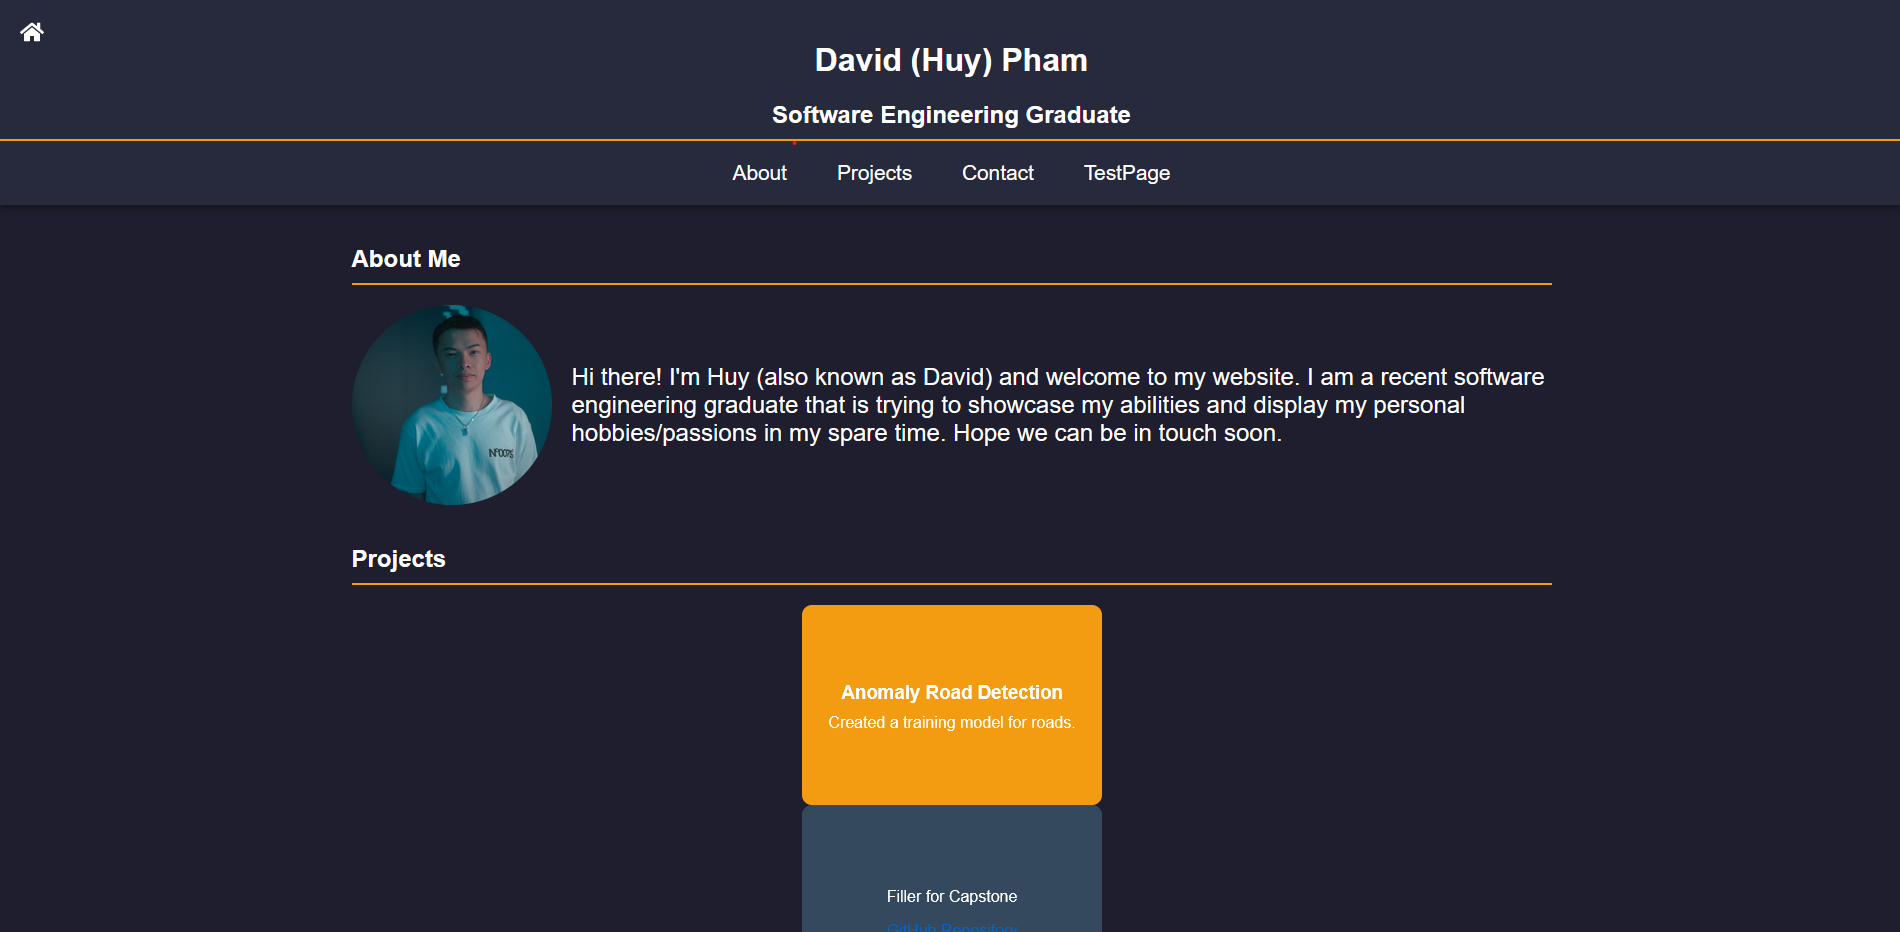
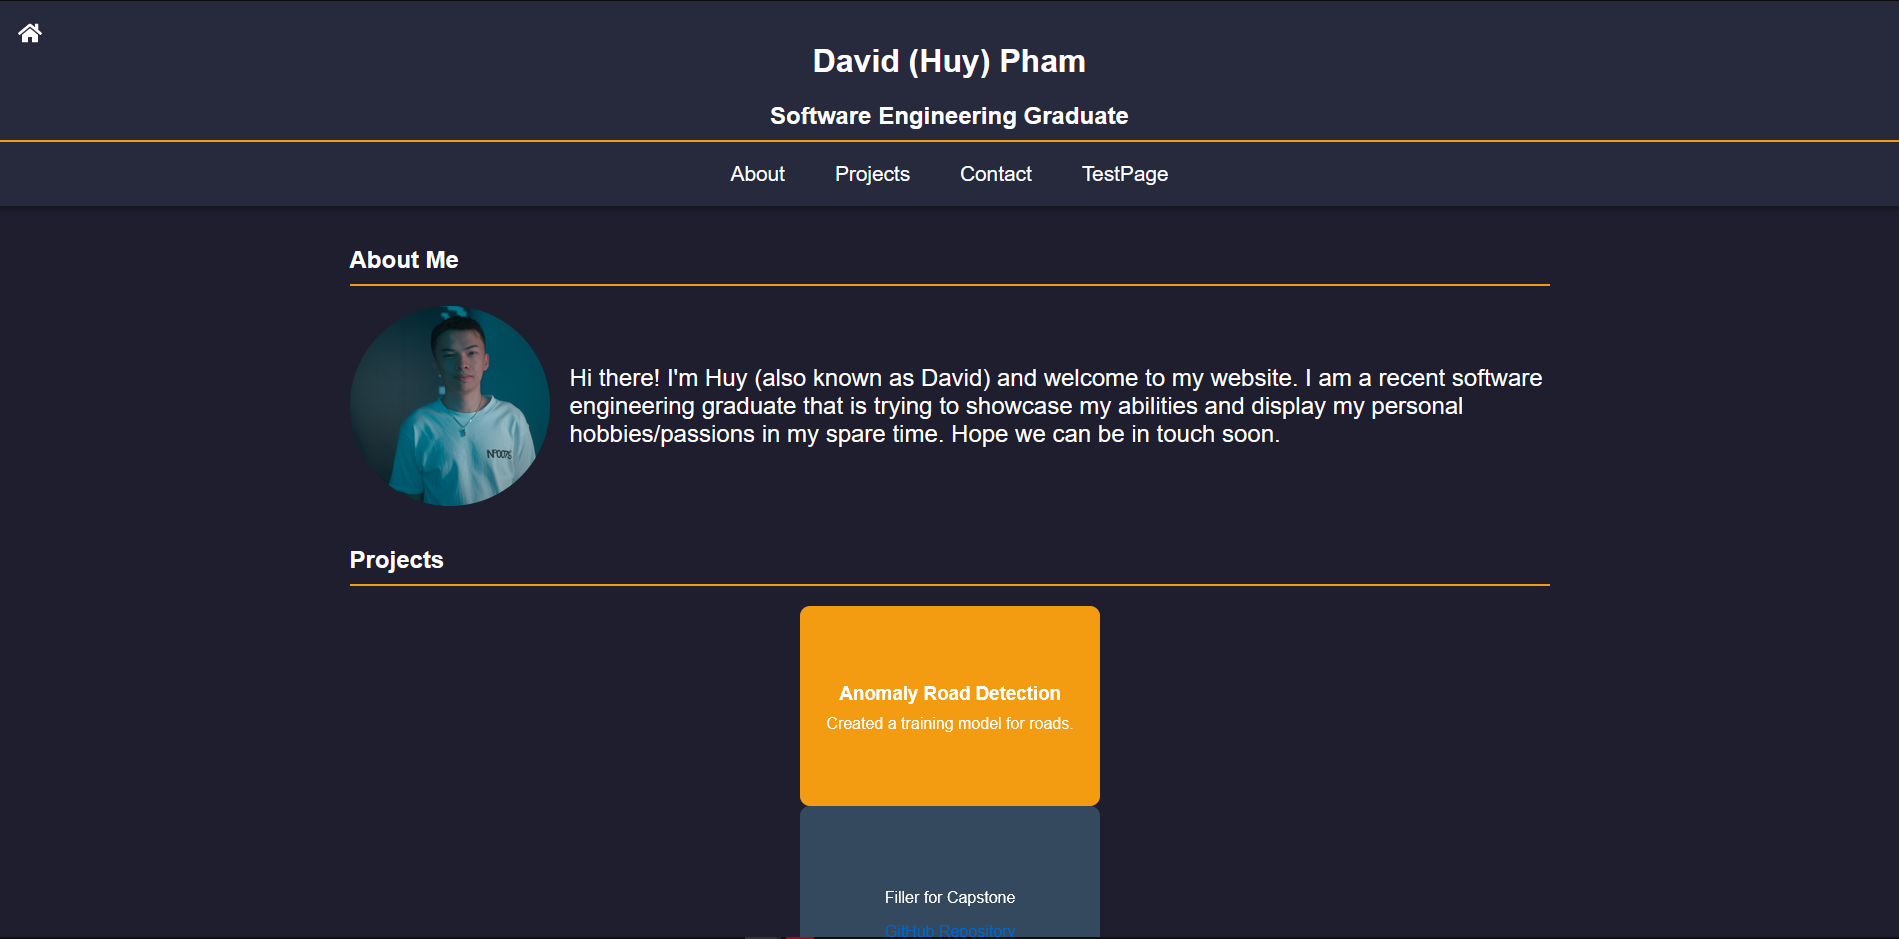
Project page finished
- new pictures added
- new blurbs added per project
- stylized
- TODO: add icons per project?

diff --git a/frontend/src/components/projects/Projects.js b/frontend/src/components/projects/Projects.js
@@ -7,26 +7,26 @@ import './projects.css';
 const projects = [
   {
     title: 'Personal Website: hwe',
-    description: 'asdfasdf',
-    details: 'asdfasdf',
+    description: 'My own personal website to showcase my skills and passions. Showcase my abiltities for software engineering and development.',
+    details: 'Personally developped a user-friendly, responsive website to showcase my skills, projects, and my personal and professional exerpeince. This design features a sleek design with cohesive navation and interactive elements that provide a large overview of my work.',
     imgSRC: '/images/personalweb.png',
     repoLink: 'https://github.com/Tr0llinMe/hweport',
     date: 'May 2024'
   },
   {
-    title: 'Capstone',
-    description: 'asdfasdf',
-    details: 'asdfasdf',
+    title: 'Capstone: NotifyMe Application',
+    description: 'A navigation application catered to students to streamline their commuting experience.',
+    details: 'Worked as a full-stack developer within the project in order to learn the general workflow and architecture for this application. The website is able to give navigations for any mode of transport users need, with traffic congestion % also included for users to deecide their directions. It also includes an hour-to-hour traffic detail to show when the best time users should leave.',
     imgSRC: '/images/NotifyMeSystem.png',
-    repoLink: '',
+    repoLink: 'https://github.com/Tr0llinMe/Navigation-TMU',
     date: 'January 2024'
   },
   {
-    title: 'Project 3',
-    description: 'asdfasdf',
-    details: 'asdfasdf',
-    imgSRC: '',
-    repoLink: '',
+    title: 'Anomaly Detection: Training Model',
+    description: 'Worked as a predecessaor for NotifyMe. Created a training model to detect road anomalies.',
+    details: 'Worked as the main developer for this project. The training mdoel is used to detect whether or not the road conditions are suitable for vehicles to drive in. It uses a CNN model for the learning process, with making use of computer vision in order to detect any issues with the pictures. The training set is then organized so that it can be later used to retrain the model.',
+    imgSRC: '/images/anomalydetection.png',
+    repoLink: 'https://github.com/Tr0llinMe/Anomaly-Road-Detection',
     date: 'November 2023'
   },
   //If more is needed add in chrono

diff --git a/frontend/src/components/navbar/Navbar.js b/frontend/src/components/navbar/Navbar.js
@@ -10,7 +10,7 @@ function Navbar() {
         <Link to="/"><FaHome /></Link>
       </div>
       <div className="title">
-        <h1>David (Huy) Pham</h1>
+        <h1>Huy (David) Pham</h1>
         <h2>Software Engineering Graduate</h2>
       </div>
       <nav className="nav-links">

diff --git a/frontend/src/components/projects/projects.css b/frontend/src/components/projects/projects.css
@@ -10,6 +10,7 @@
     border-bottom: 2px solid #f39c12;
     padding-bottom: 10px;
     color: #f39c12;
+    font-size: 30px;
 }
 
 .timeline {
